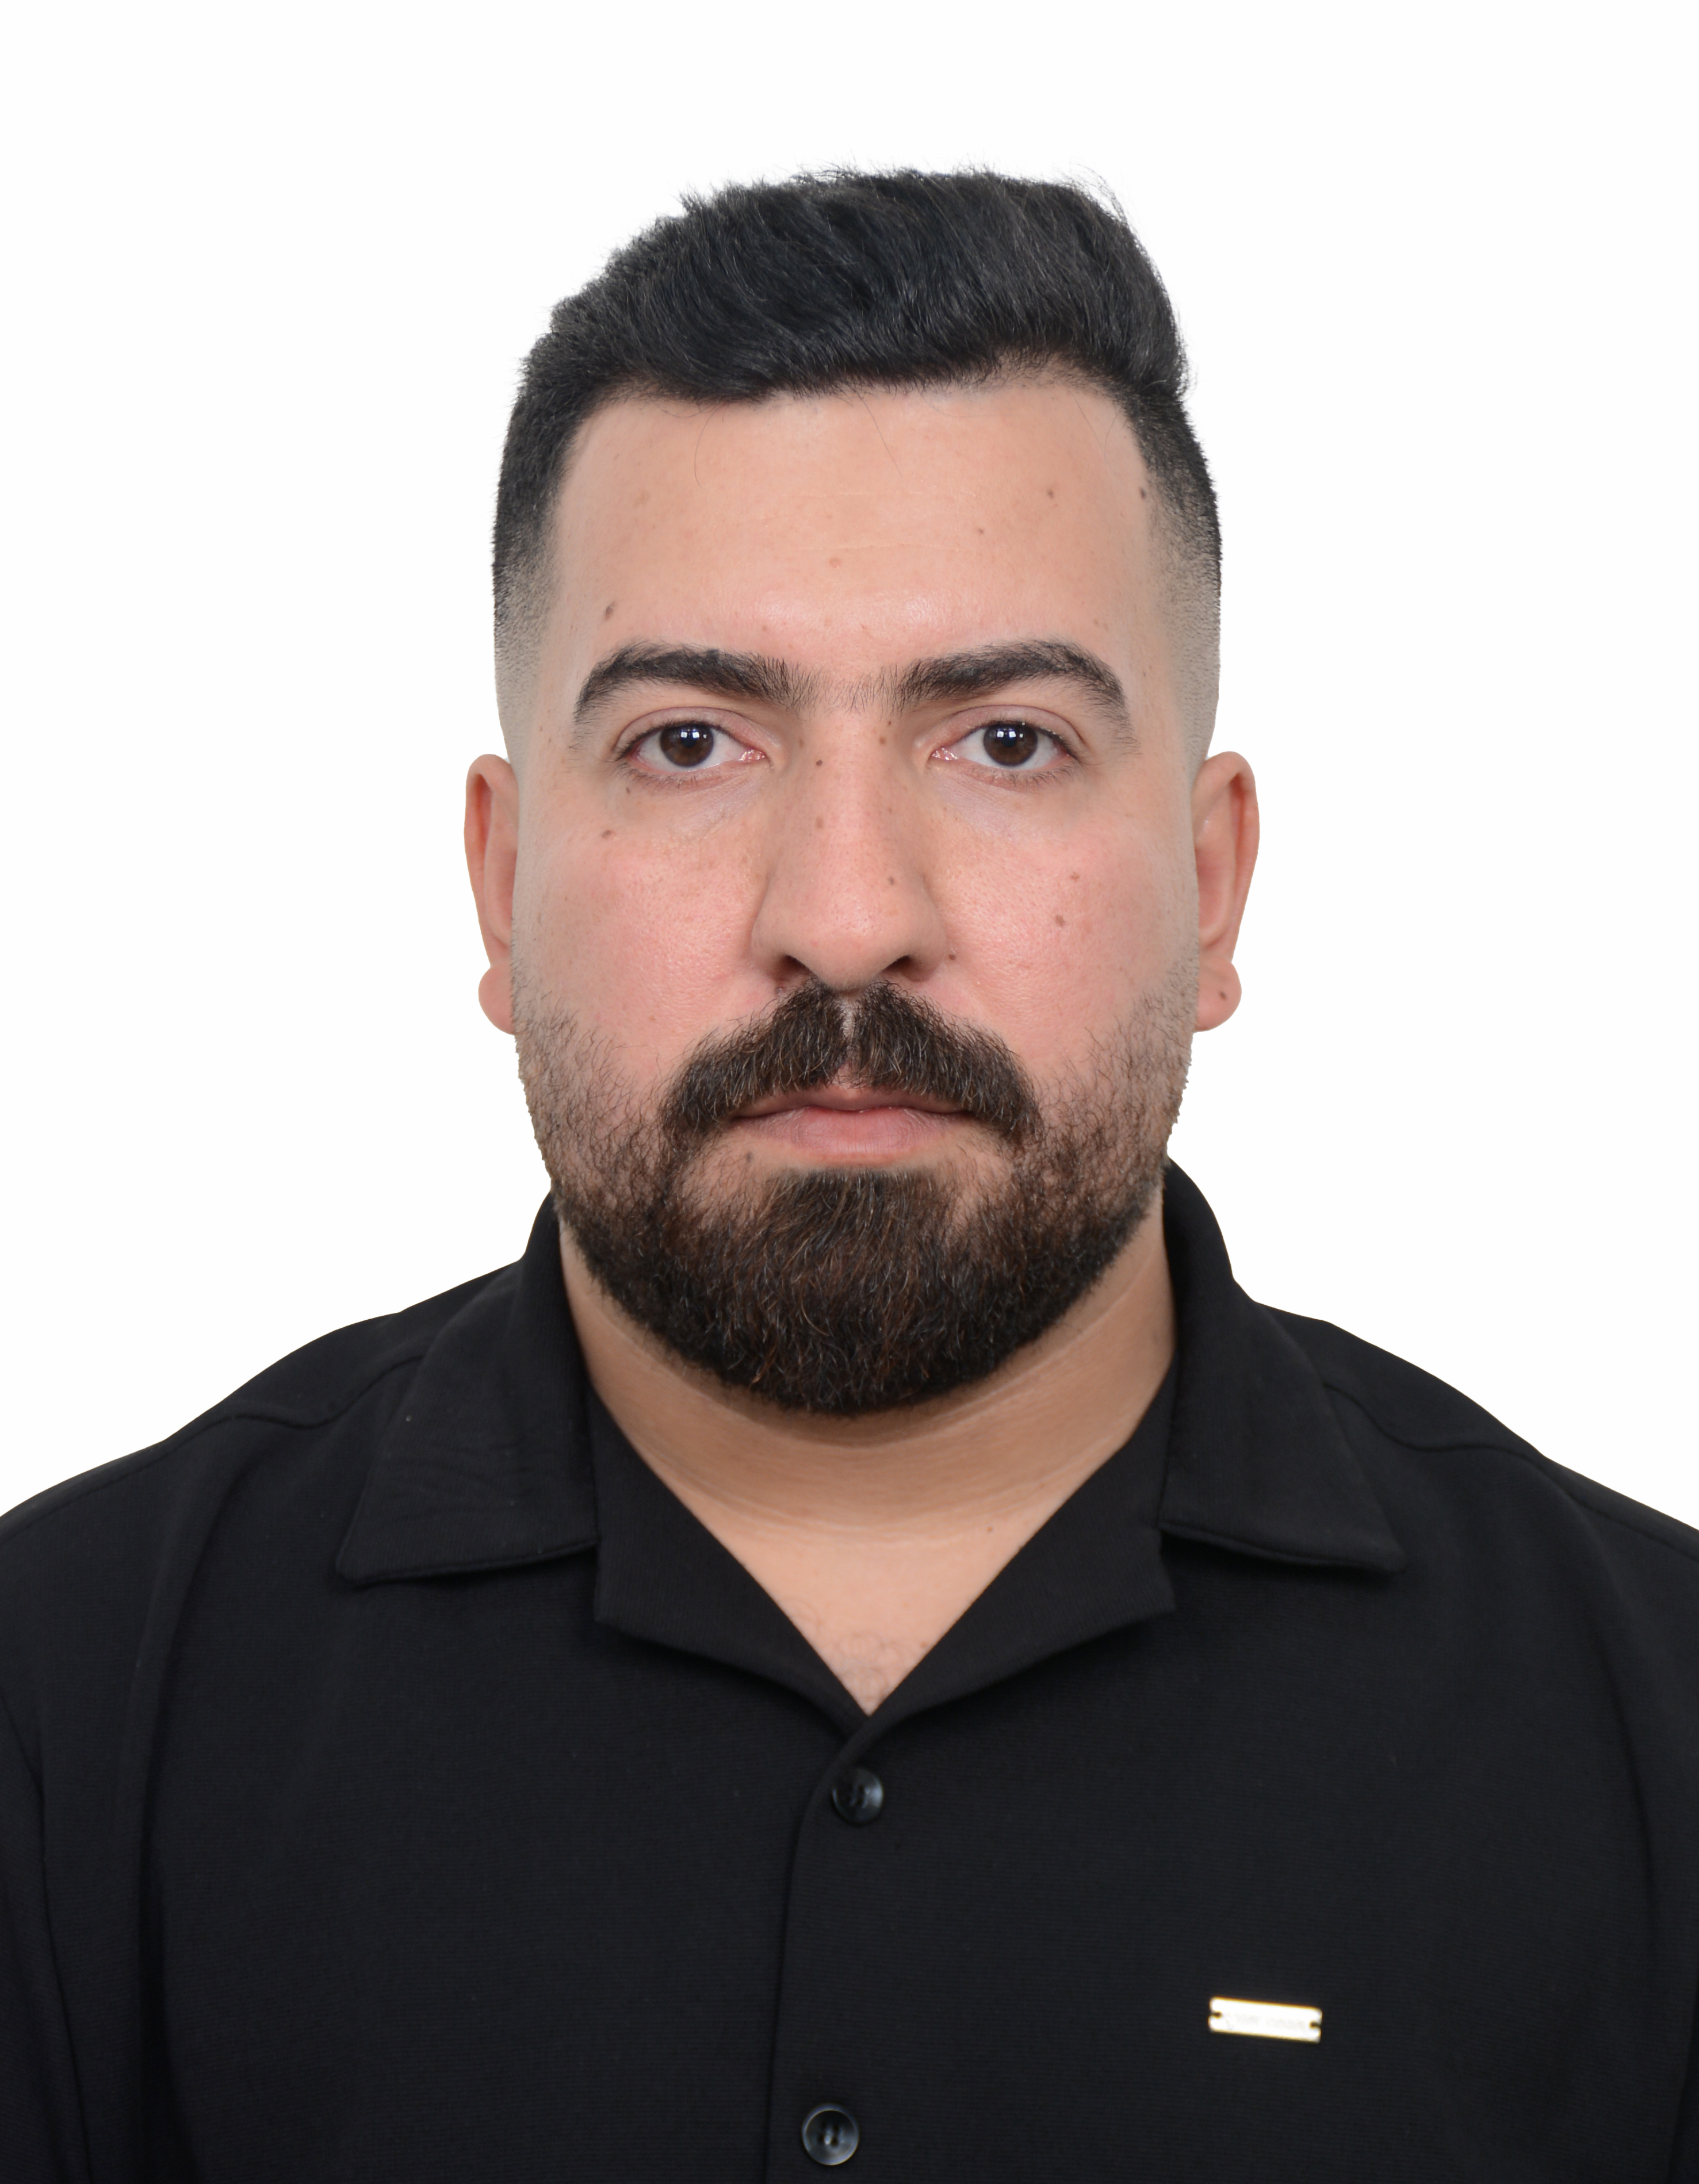
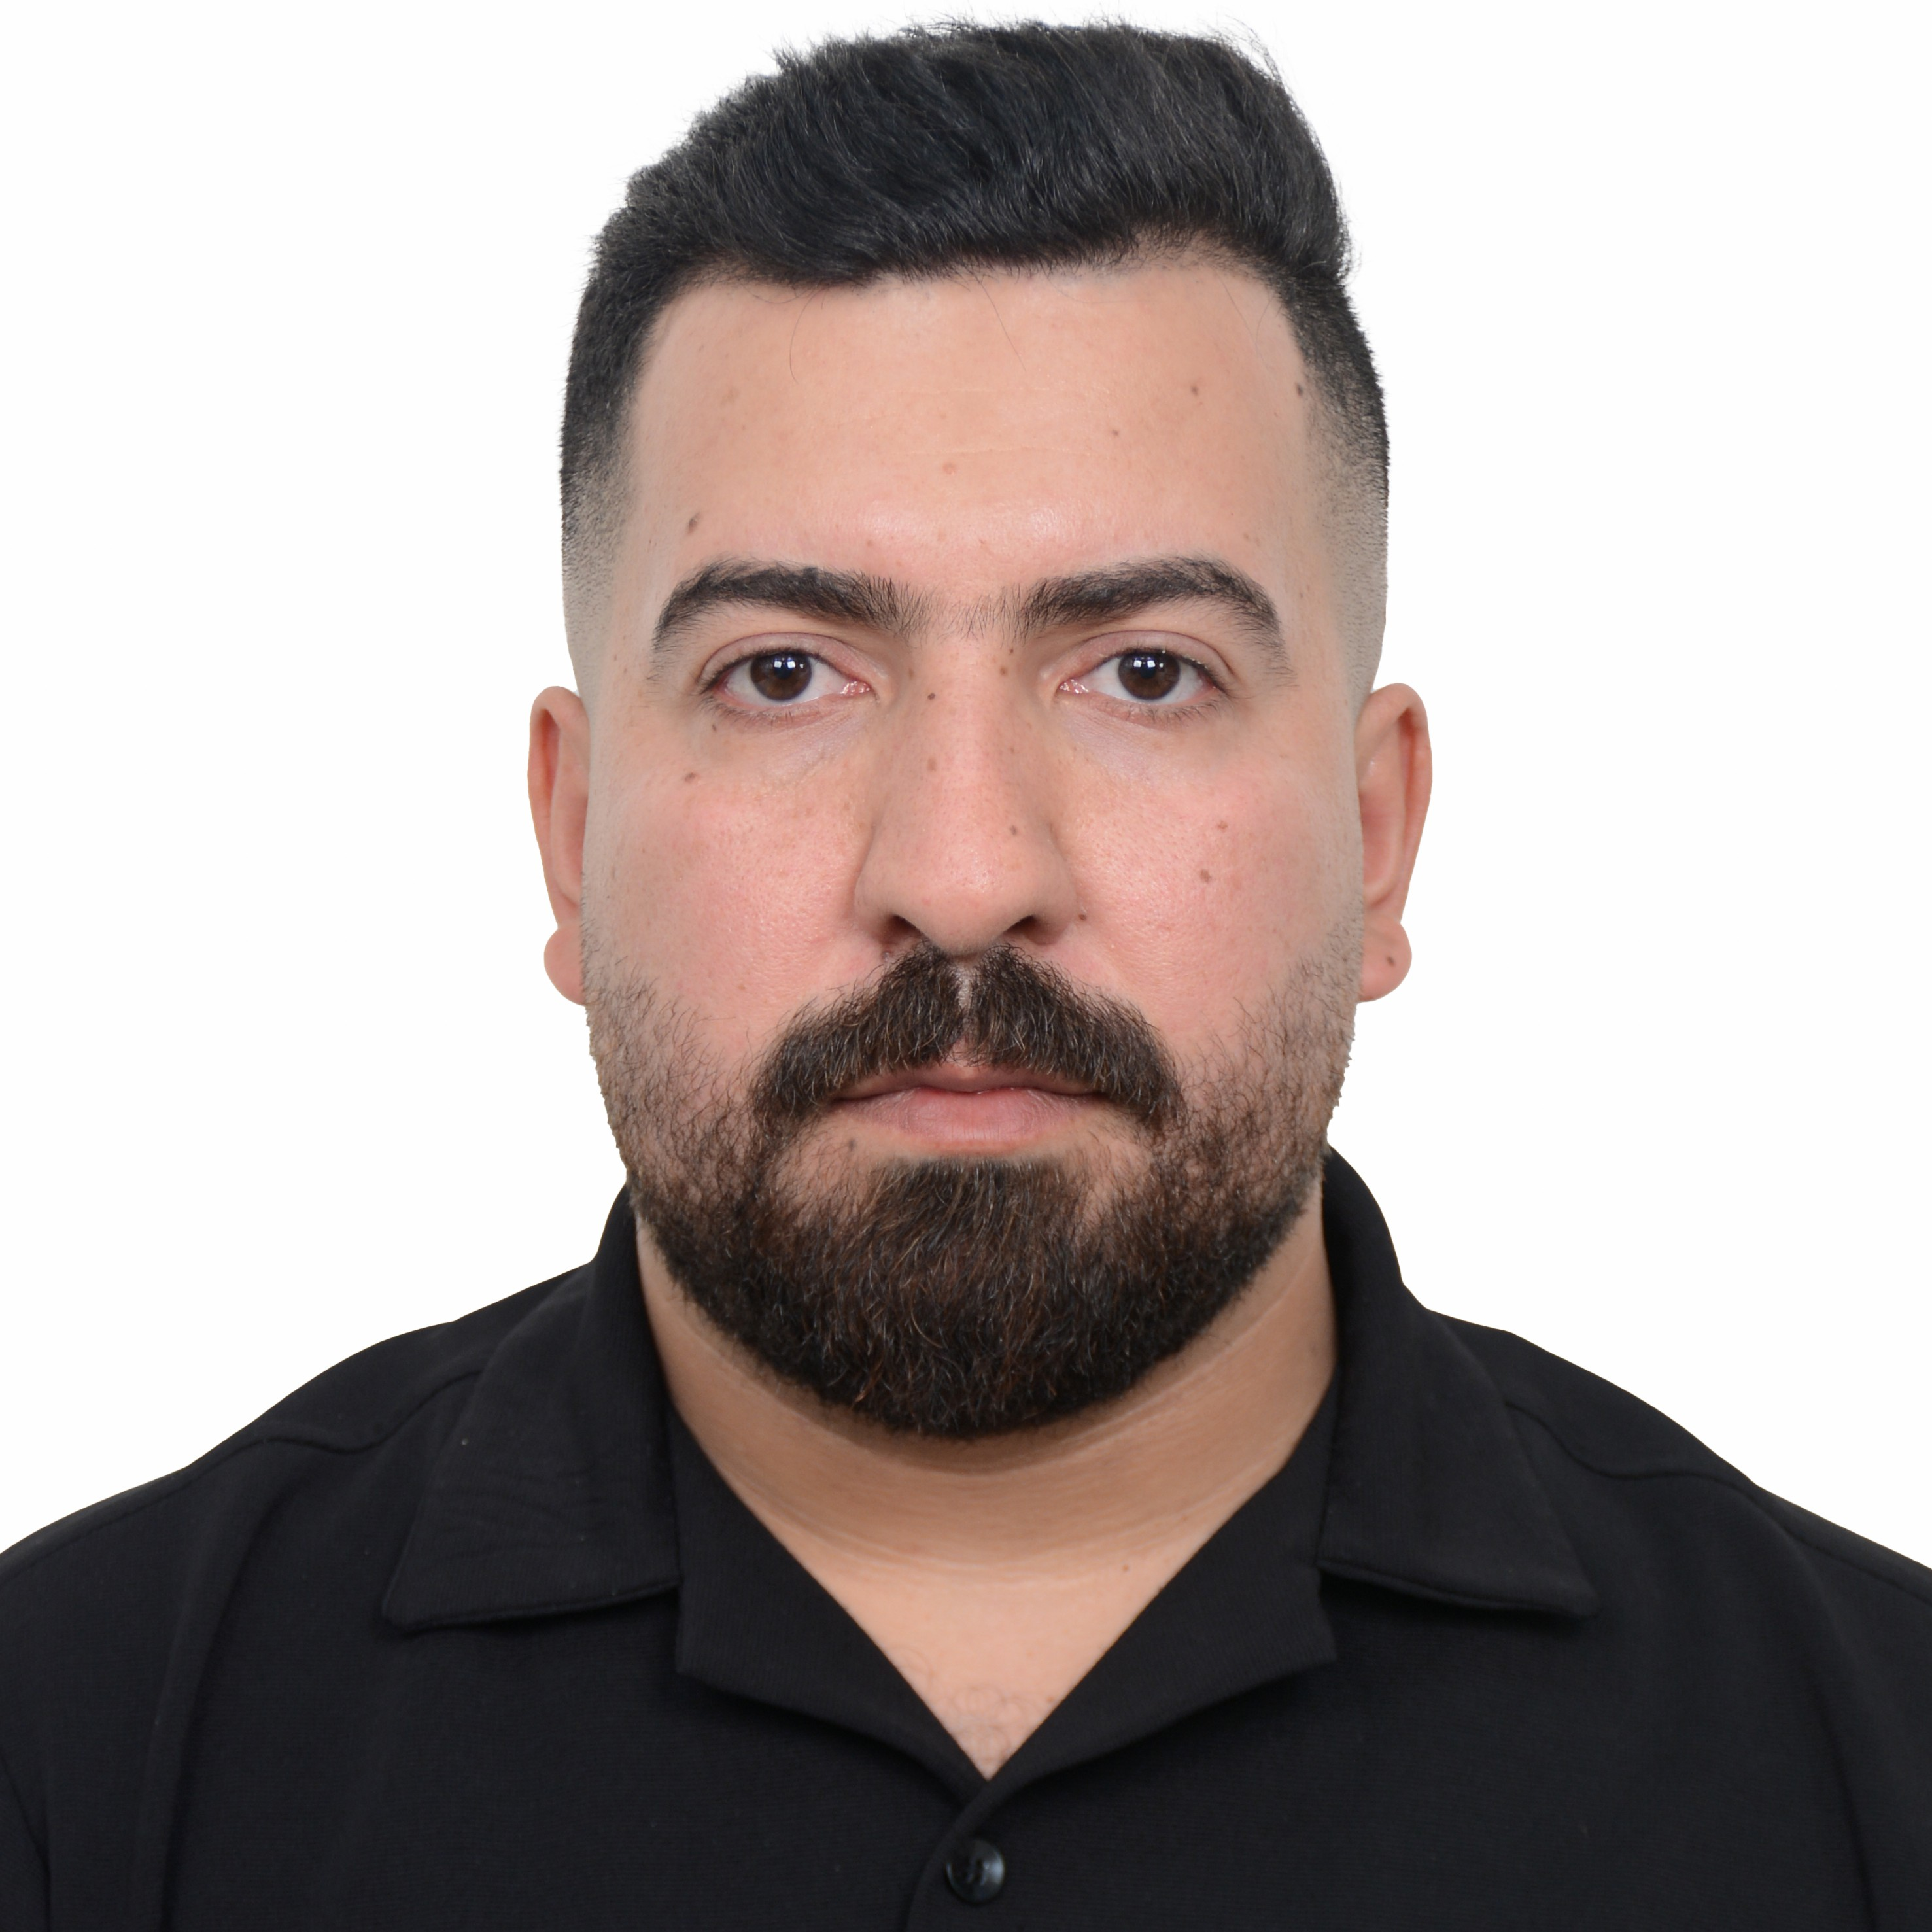
Merge pull request #58 from SystronLab/adding-dema-and-fixing-hasan
Adding dema and fixing hasan

Pull request: Adding dema and fixing hasan

diff --git a/_people/dema-williams.md b/_people/dema-williams.md
@@ -1,0 +1,8 @@
+---
+name: "Dema Williams"
+role: "Research Support Assistant"
+photo: '/img/people/dema.png'
+---
+
+<!-- PUT THE PERSON'S DESCRIPTION OR RESEARCH OVERVIEW HERE -->
+Research Support Assistant, focusing on areas within O-RAN and Machine Learning within forecasting renewable energy sources. 